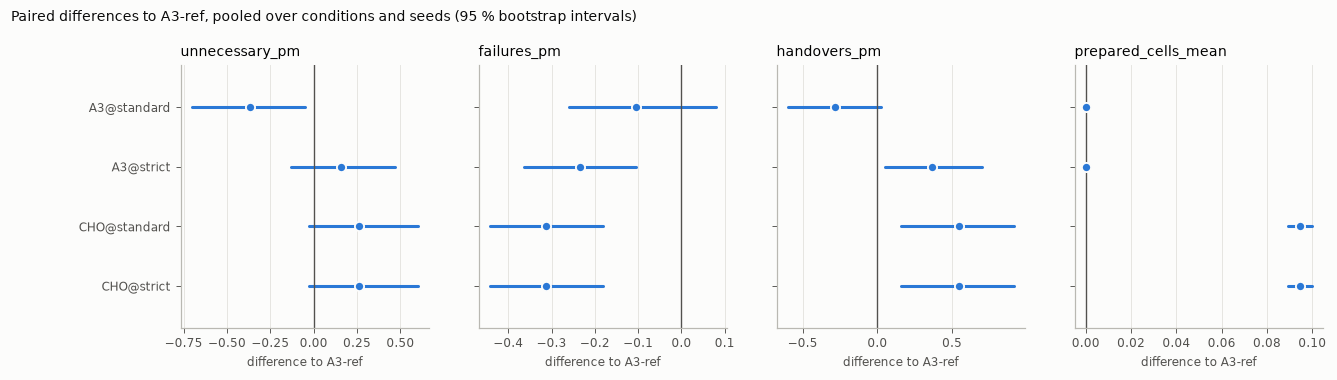
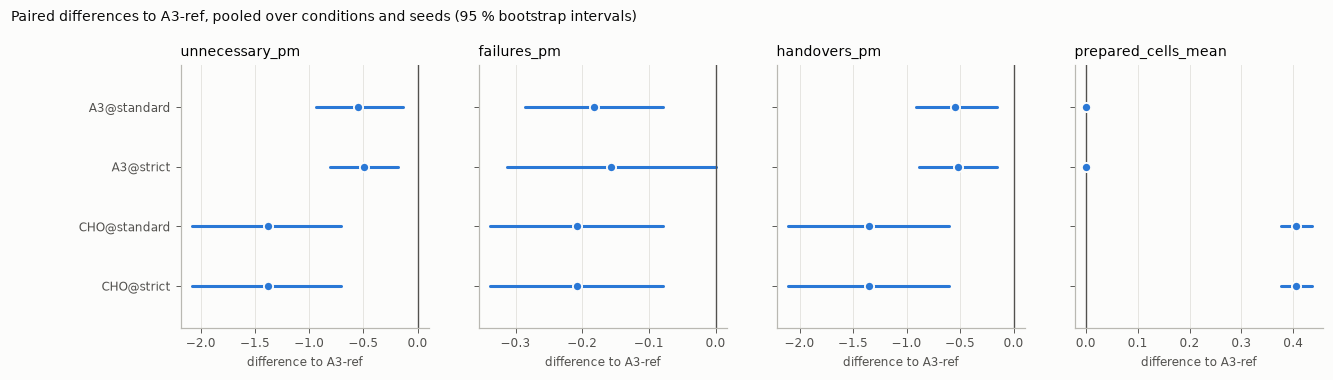
Example study: up to four grid extensions, so it completes under the 2.x defaults; tutorials 1, 3 and 4 and the report pictures rerun with 2.4.0

diff --git a/docs/tutorials/tuning-study.md b/docs/tutorials/tuning-study.md
@@ -6,7 +6,7 @@ rule is tuned on its own seeds with the same number of evaluated settings and a 
 is fixed in advance; automatic gates check that the tuning means something; then the selected
 settings are compared on fresh seeds, paired by seed. This tutorial runs the example study
 [`examples/study_smoke.yaml`](https://github.com/mjs19971997/handoverlab/blob/main/examples/study_smoke.yaml)
-(about seven minutes with two workers) and explains each step.
+(about 13 minutes with six workers on our machine) and explains each step.
 
 ## 1. The study file
 
@@ -30,7 +30,7 @@ tuning:
   group_by: [layout.site_spacing_m] # tune per site spacing
   min_reference_failures: 3
   extend_steps: 2
-  max_extensions: 2
+  max_extensions: 4
   gates: {grid_edge: extend, budget_binding: warn, budget_met: warn, equal_budget: block,
           seed_overlap: block, flat_optimum: warn}
 methods:
@@ -79,6 +79,7 @@ tuning: 2 group(s) (layout.site_spacing_m=100, layout.site_spacing_m=150), 8 set
 stage tune1: 8 jobs, 88 rule runs
 stage tune2: 8 jobs, up to 48 rule runs
 gate seed_overlap: pass (tuning and test seeds are disjoint (4 and 6 seeds))
+gate standard_values: pass (every grid and fixed value is a value of TS 38.331 V18.11.0)
 stage test: 12 jobs x 5 rules (A3-ref, A3@standard, A3@strict, CHO@standard, CHO@strict)
 baseline of the paired comparisons: A3-ref
 ```
@@ -89,48 +90,65 @@ samples.
 ## 3. Run it
 
 ```bash
-handoverlab study examples/study_smoke.yaml --workers 2 --report
+handoverlab study examples/study_smoke.yaml --workers 6 --report
 ```
 
 ```text
-study study-smoke -> results/study-smoke (2 workers)
+study study-smoke -> results/study-smoke (6 workers)
 stage tune1: 8 jobs (88 rule runs), 0 done earlier
 stage tune2: 8 jobs (48 rule runs), 0 done earlier
-  extend A3.off_db at the upper end by 7.0, 8.0 (extension 1 of at most 2); tuning again
+  extend A3.off_db at the upper end by 7.0, 8.0 (extension 1 of at most 4); tuning again
+  extend CHO.o_exec_db at the upper end by 6.0, 7.0 (extension 1 of at most 4); tuning again
+  extend CHO.ttt_exec_s at the upper end by 0.48, 0.512 (extension 1 of at most 4); tuning again
 stage tune1: 8 jobs (88 rule runs), 0 done earlier
 stage tune2: 8 jobs (48 rule runs), 0 done earlier
-  gate warn budget_binding (layout.site_spacing_m=150, budget standard): the reference rule has only 1 failure on the tuning runs (minimum 3); share of settings within the budget: A3 62 %, CHO 62 %
-  gate warn budget_binding (layout.site_spacing_m=150, budget strict): the reference rule has only 1 failure on the tuning runs (minimum 3); share of settings within the budget: A3 25 %, CHO 62 %
+  extend CHO.o_exec_db at the upper end by 8.0, 9.0 (extension 2 of at most 4); tuning again
+stage tune1: 8 jobs (88 rule runs), 0 done earlier
+stage tune2: 8 jobs (48 rule runs), 8 done earlier
+  extend CHO.o_exec_db at the upper end by 10.0, 11.0 (extension 3 of at most 4); tuning again
+stage tune1: 8 jobs (88 rule runs), 0 done earlier
+stage tune2: 8 jobs (48 rule runs), 0 done earlier
+  extend CHO.o_exec_db at the upper end by 12.0, 13.0 (extension 4 of at most 4); tuning again
+stage tune1: 8 jobs (88 rule runs), 0 done earlier
+stage tune2: 8 jobs (48 rule runs), 0 done earlier
+  gate warn budget_binding (layout.site_spacing_m=100, budget standard): more than 90 % of the settings of every method meet the budget: share of settings within the budget: A3 100 %, CHO 100 %
 stage test: 12 jobs (60 rule runs), 0 done earlier
 study study-smoke: complete
 ```
 
 (Lines for each finished job are left out.) Two things happened between tuning and test.
 
-**The grid was widened.** In the first tuning round A3 selected `off_db = 6`, the largest value of
-its grid, in three of the four group-budget pairs. A setting on the edge means the search may have
-stopped too early, and a baseline tuned that way can make another rule look better than it is. With
-`grid_edge: extend` the study added 7 and 8 dB (the spacing of the last two values) and tuned *every*
-method again with the same budget of 8 settings. Rule runs that had already been simulated were
-reused. After the extension A3 still selects 6 dB, now an interior value, and the gate passes. The
-extension is recorded with its date in `results/study-smoke/AMENDMENTS.md`:
+**The grid was widened, four times.** In the first tuning round A3 selected `off_db = 6`, the largest
+value of its grid, in all four group-budget pairs, and CHO selected the largest execution offset and
+time-to-trigger in three of them. A setting on the edge means the search may have stopped too early, and a
+baseline tuned that way can make another rule look better than it is. With `grid_edge: extend` the study
+added two values beyond each edge (the spacing of the last two values) and tuned *every* method again with
+the same budget of 8 settings; rule runs already simulated were reused. A3 then selected 6 dB as an interior
+value, but CHO kept choosing the largest execution offset, so the study extended `CHO.o_exec_db` three more
+times, up to 13 dB. After the fourth extension CHO selects 10 or 11 dB with a time-to-trigger of 480 ms,
+interior values, and the gate passes. Every extension is recorded with its date in
+`results/study-smoke/AMENDMENTS.md`:
 
 ```text
-## Extension 1 (2026-10-16T00:03:16+00:00)
+## Extension 1 (2026-10-23T02:53:19+00:00)
 
 - `A3.off_db`: added 7.0, 8.0 at the upper end (grid before: 0.0, 1.0, 2.0, 3.0, 4.0, 5.0, 6.0);
   selected at the edge in layout.site_spacing_m=100, budget standard; layout.site_spacing_m=100,
-  budget strict; layout.site_spacing_m=150, budget standard.
+  budget strict; layout.site_spacing_m=150, budget standard; layout.site_spacing_m=150, budget strict.
+- `CHO.o_exec_db`: added 6.0, 7.0 at the upper end (grid before: 0.0, 1.0, 2.0, 3.0, 4.0, 5.0); ...
+- `CHO.ttt_exec_s`: added 0.48, 0.512 at the upper end (grid before: 0.0, 0.04, 0.08, 0.16, 0.32); ...
 ```
 
 With `grid_edge: block` (the default) the study would have stopped here and asked you to widen the
 grid; with `warn` it would have gone on and only flagged the edge. `max_extensions` caps the number
-of extension rounds; if the edge remains after the last one, the gate blocks.
+of extension rounds; if the edge remains after the last one, the gate blocks. (With the cap of 2 that
+this example had before 2.4.0 the study blocked under the 3GPP defaults of 2.x: CHO wanted larger
+offsets than the grid then held.)
 
-**Two warnings remain.** At 150 m the reference rule failed only once on the four tuning runs, so a
-budget of "the reference failure rate" rests on a single event. The study goes on (`budget_binding`
+**One warning remains.** At 100 m and the standard budget more than 90 % of the settings of both methods
+meet the budget, so the budget hardly constrains the choice there. The study goes on (`budget_binding`
 is a warning by default), but the report shows it next to every result. In a real study this is
-the cue to add tuning seeds or lengthen the runs.
+the cue to tighten the budget or make the condition harder.
 
 ## 4. Stop, resume, check progress
 
@@ -144,17 +162,17 @@ handoverlab status results/study-smoke
 
 ```text
 study study-smoke in results/study-smoke
-  last session (1) 2026-10-15T23:59:30+00:00: stopped after tuning
+  last session (1) 2026-10-23T03:03:51+00:00: stopped after tuning
   stage    jobs   done  failed  to run  rule runs
   tune1       8      8       0       0          0
   tune2       8      8       0       0          0
-  test       12      0       0      12         48
-  gates: pass (0 blocking, 5 warnings)
-  time left: about 34 s with 2 workers (69 s CPU; measured on 16 jobs: world 2.5 s, 3.36 s per rule run of 1000 user-seconds)
+  test       12      0       0      12         54
+  gates: pass (0 blocking, 8 warnings)
+  time left: about 35 s with 2 workers (69 s CPU; measured on 16 jobs: world 2.1 s, 3.45 s per rule run of 1000 user-seconds)
 ```
 
 (This output is from a run of the same study with `grid_edge: warn`, stopped after tuning with
-`--tuning-only`; hence five warnings.) The time left is
+`--tuning-only`; hence eight warnings.) The time left is
 estimated from the jobs this study has already finished.
 
 ## 5. What makes it fair

diff --git a/docs/tutorials/reading-the-report.md b/docs/tutorials/reading-the-report.md
@@ -9,9 +9,9 @@ scenario: they illustrate how to read a report, not how A3 and CHO compare.
 ## Provenance
 
 ```text
-HandoverLab 0.4.0a1 (model 1), Python 3.12.10, NumPy 2.4.6, SciPy 1.18.0, Windows-2022Server-10.0.20348-SP0.
-Study file hash `c4f0ef781591085e`.
-Jobs: tune1 8, tune2 8, test 12; 80 rule runs simulated, the rest reused; 127 s of job time; 1 session(s).
+HandoverLab 2.4.0 (model 3), Python 3.12.10, NumPy 2.4.6, SciPy 1.18.0, Windows-2022Server-10.0.20348-SP0.
+Study file hash `7b3cf5b44bde5a6d`.
+Jobs: tune1 8, tune2 8, test 12; 60 rule runs simulated, the rest reused; 213 s of job time; 1 session(s).
 ```
 
 The study-file hash identifies the resolved study (`study.lock.json`); the model version changes
@@ -25,25 +25,25 @@ The gate table lists every gate that did not pass, then counts the passed ones:
 
 | gate | status | group | method | budget | detail |
 |---|---|---|---|---|---|
-| budget_binding | warn | layout.site_spacing_m=150 | - | standard | the reference rule has only 1 failure on the tuning runs (minimum 3); ... |
-| budget_binding | warn | layout.site_spacing_m=150 | - | strict | ... |
+| budget_binding | warn | layout.site_spacing_m=100 | - | standard | more than 90 % of the settings of every method meet the budget: share of settings within the budget: A3 100 %, CHO 100 % |
 
 Read the gates before any result. A `BLOCK` means no test ran. A `warn` limits what a result can
-mean: here, at 150 m, the failure budget rests on one reference failure, so "within the failure
-budget" is a weak statement at that site spacing. The *Grid extensions* table lists every grid that
-the policy `extend` widened (here A3's offset from 6 to 8 dB).
+mean: here, at 100 m, every evaluated setting of both methods met the standard budget, so "within the
+failure budget" says little at that site spacing. The *Grid extensions* table lists every grid that
+the policy `extend` widened (here six extensions in four rounds: A3's offset to 8 dB, CHO's execution
+offset step by step to 13 dB and its time-to-trigger to 512 ms).
 
 ## Tuning: what was selected
 
 For every tuning group the report gives the reference rule, the budgets and the selected setting
-per method and budget, with how many of the 8 settings met the budget:
+per method and budget, with how many of the 8 settings met the budget (group 100 m):
 
 | method | budget | selected setting | unnecessary_pm | failures_pm | prepared cells | within budget | budget met |
 |---|---|---|---|---|---|---|---|
-| A3 | standard | off_db=6, ttt_s=0.08 | 1.484 | 0.234 | 0.000 | 6 / 8 | yes |
-| A3 | strict | off_db=6, ttt_s=0.04 | 1.563 | 0.078 | 0.000 | 4 / 8 | yes |
-| CHO | standard | o_exec_db=4, ttt_exec_s=0.04 | 1.875 | 0.000 | 0.096 | 5 / 8 | yes |
-| CHO | strict | o_exec_db=4, ttt_exec_s=0.04 | 1.875 | 0.000 | 0.096 | 5 / 8 | yes |
+| A3 | standard | off_db=6, ttt_s=0.16 | 1.016 | 0.313 | 0.000 | 8 / 8 | yes |
+| A3 | strict | off_db=6, ttt_s=0.04 | 1.328 | 0.078 | 0.000 | 7 / 8 | yes |
+| CHO | standard | o_exec_db=11, ttt_exec_s=0.48 | 0.156 | 0.078 | 0.442 | 8 / 8 | yes |
+| CHO | strict | o_exec_db=11, ttt_exec_s=0.48 | 0.156 | 0.078 | 0.442 | 5 / 8 | yes |
 
 ![Tuning figure](../images/report-tuning.png)
 
@@ -64,9 +64,9 @@ selection can be redone or checked.
 
 | rule | unnecessary_pm | failures_pm | handovers_pm | prepared_cells_mean |
 |---|---|---|---|---|
-| A3-ref | 1.823 [0.888, 2.757] | 0.339 [0.141, 0.536] | 17.214 [15.267, 19.160] | 0.000 [0.000, 0.000] |
-| A3@standard | 1.458 [0.676, 2.240] | 0.234 [0.085, 0.384] | 16.927 [14.899, 18.955] | 0.000 [0.000, 0.000] |
-| CHO@standard | 2.083 [0.950, 3.217] | 0.026 [-0.031, 0.083] | 17.760 [15.955, 19.566] | 0.095 [0.088, 0.101] |
+| A3-ref | 1.719 [0.805, 2.633] | 0.234 [0.085, 0.384] | 17.057 [15.334, 18.781] | 0.000 [0.000, 0.000] |
+| A3@standard | 1.172 [0.538, 1.806] | 0.052 [-0.025, 0.129] | 16.510 [14.504, 18.517] | 0.000 [0.000, 0.000] |
+| CHO@standard | 0.339 [0.052, 0.625] | 0.026 [-0.031, 0.083] | 15.703 [13.643, 17.763] | 0.406 [0.372, 0.441] |
 
 Means over the 12 test runs (2 conditions x 6 seeds) with 95 % t intervals, then the same per
 condition. These intervals describe the spread between worlds; they are wide because worlds differ
@@ -79,8 +79,8 @@ seed), which removes the differences between worlds:
 
 | rule | pairs | mean | baseline | difference | t interval | bootstrap interval | change % | p | p (Holm) |
 |---|---|---|---|---|---|---|---|---|---|
-| A3@standard | 12 | 1.458 | 1.823 | -0.3646 | [-0.7510, 0.0218] | [-0.7031, -0.0521] | -20.0 | 0.0430 | 0.1719 |
-| CHO@standard | 12 | 2.083 | 1.823 | 0.2604 | [-0.0971, 0.6179] | [-0.0260, 0.5990] | 14.3 | 0.2109 | 0.6328 |
+| A3@standard | 12 | 1.172 | 1.719 | -0.5469 | [-1.0267, -0.0670] | [-0.9375, -0.1302] | -31.8 | 0.0430 | 0.0430 |
+| CHO@standard | 12 | 0.339 | 1.719 | -1.3802 | [-2.2330, -0.5274] | [-2.0833, -0.7031] | -80.3 | 0.0049 | 0.0195 |
 
 (unnecessary handovers per UE-minute; some columns left out.)
 
@@ -94,11 +94,13 @@ seed), which removes the differences between worlds:
 - **non-zero**: how many of the pairs differ at all. With per-run rates built from a handful of
   events, many pairs are tied.
 
-Reading the rows above: tuned A3 had 0.36 fewer unnecessary handovers per UE-minute than the
-reference A3 on average, but the t interval includes zero and after the Holm adjustment p = 0.17:
-with 12 pairs this is not a demonstrated difference. CHO's difference has the opposite sign and is
-not significant either. For failures (not shown) CHO@standard had 0.31 fewer failures per UE-minute
-than the reference with p (Holm) = 0.03.
+Reading the rows above: tuned A3 had 0.55 fewer unnecessary handovers per UE-minute than the
+reference A3 on average; the t interval excludes zero and p (Holm) = 0.043. CHO@standard had 1.38 fewer
+(80 %, p (Holm) = 0.02), but with a 10-11 dB execution offset and 480 ms time-to-trigger, and it holds
+0.4 prepared cells per user. The per-condition rows (in the report) are weaker: with 6 pairs per site
+spacing no difference survives the Holm adjustment, so the pooled result should be read with the
+checklist below. For failures (not shown) both tuned rules had fewer failures than the reference, but
+after the Holm adjustment none is significant (p (Holm) = 0.13-0.16).
 
 ![Paired differences](../images/report-comparison.png)
 

diff --git a/docs/tutorials/first-run.md b/docs/tutorials/first-run.md
@@ -26,14 +26,17 @@ dense-urban-2layer Two-layer dense urban deployment of ITU-R M.2412 (4 GHz macro
 fr3-urban-15ghz    The TR 37.885 urban grid in the upper mid-band (FR3) at 15 GHz
 highway-tr37885-30ghz The TR 37.885 highway above 6 GHz (hexagonal layout, 30 GHz, SSB beams)
 highway-tr37885-4ghz The TR 37.885 highway below 6 GHz (baseline layout, 4 GHz)
+hst-fr2-28ghz      High-speed train in FR2 (TR 38.854 Scenario-A, unidirectional RRHs, 28 GHz, 350 km/h)
 indoor-office-4ghz The TR 38.901 indoor office with ceiling sites at 4 GHz
 ns3-urban-3.5ghz   Reference scenario of the comparison with ns-3 / 5G-LENA
 ntn-leo600-2ghz    A LEO satellite at 600 km with 19 earth-moving beams in the S band (NTN)
 open-area-10ghz    Open area with hexagonal sites, nothing tied to place
 rural-700mhz       Rural macro cells at 700 MHz
 smoke              Small street grid that runs in seconds
+suburban-sma-7ghz  Suburban macro cells (SMa) at 7 GHz with indoor users
 urban-grid-10ghz   Dense small cells in the TR 37.885 urban grid at 10 GHz
 urban-grid-28ghz-beams Small cells with SSB beams and beam failure recovery in the TR 37.885 urban grid at 28 GHz (FR2)
+urban-macro-tr37885-4ghz The TR 37.885 urban grid with macro sites (500 m hexagonal layout, 4 GHz)
 ```
 
 `smoke` is a 2 x 2-block street grid with sites every 150 m and 20 users for 30 s. It runs in
@@ -61,18 +64,20 @@ handoverlab run examples/smoke.yaml
 ```
 
 ```text
-seed 1: 2 rules in 8.1 s
-seed 2: 2 rules in 8.4 s
+seed 1: 2 rules in 25.1 s
+seed 2: 2 rules in 29.4 s
 rule          seed handovers_pm unnecessary_  pingpong_pm  failures_pm prepared_cel
-A3               1      11.7600       4.3200       1.2000       0.0000       0.0000
-CHO              1      12.0000       4.5600       1.4400       0.0000       0.0979
-A3               2       7.9200       0.9600       0.4800       0.2400       0.0000
-CHO              2       8.8800       1.6800       0.7200       0.0000       0.0894
+A3               1      11.7600       3.6000       1.9200       0.0000       0.0000
+CHO              1      12.7200       4.3200       2.6400       0.0000       0.1178
+A3               2       9.3600       2.8800       0.7200       0.0000       0.0000
+CHO              2       9.6000       3.3600       0.7200       0.0000       0.0926
 wrote results/smoke.json
 ```
 
-Times depend on the machine; the numbers do not (same version, same platform). The numbers are those of
-2.0.0; 1.x gave other values, as its defaults differed ([moving from 1.x to 2.0](../migration-2.0.md)).
+Times depend on the machine (these are from a busy virtual machine); the numbers do not (same version,
+same platform). The numbers are those of 2.4.0 (the defaults of 2.1.0, `protocol.rrc_detail` and
+`radio.channel_detail` "3gpp", changed them from 2.0.0); 1.x gave other values, as its defaults differed
+([moving from 1.x to 2.0](../migration-2.0.md)).
 
 **What happened.** For each seed HandoverLab built one *world*: the site layout, the radio map
 (line of sight, path loss, shadowing), the trajectories of the users and their services. Both rules
